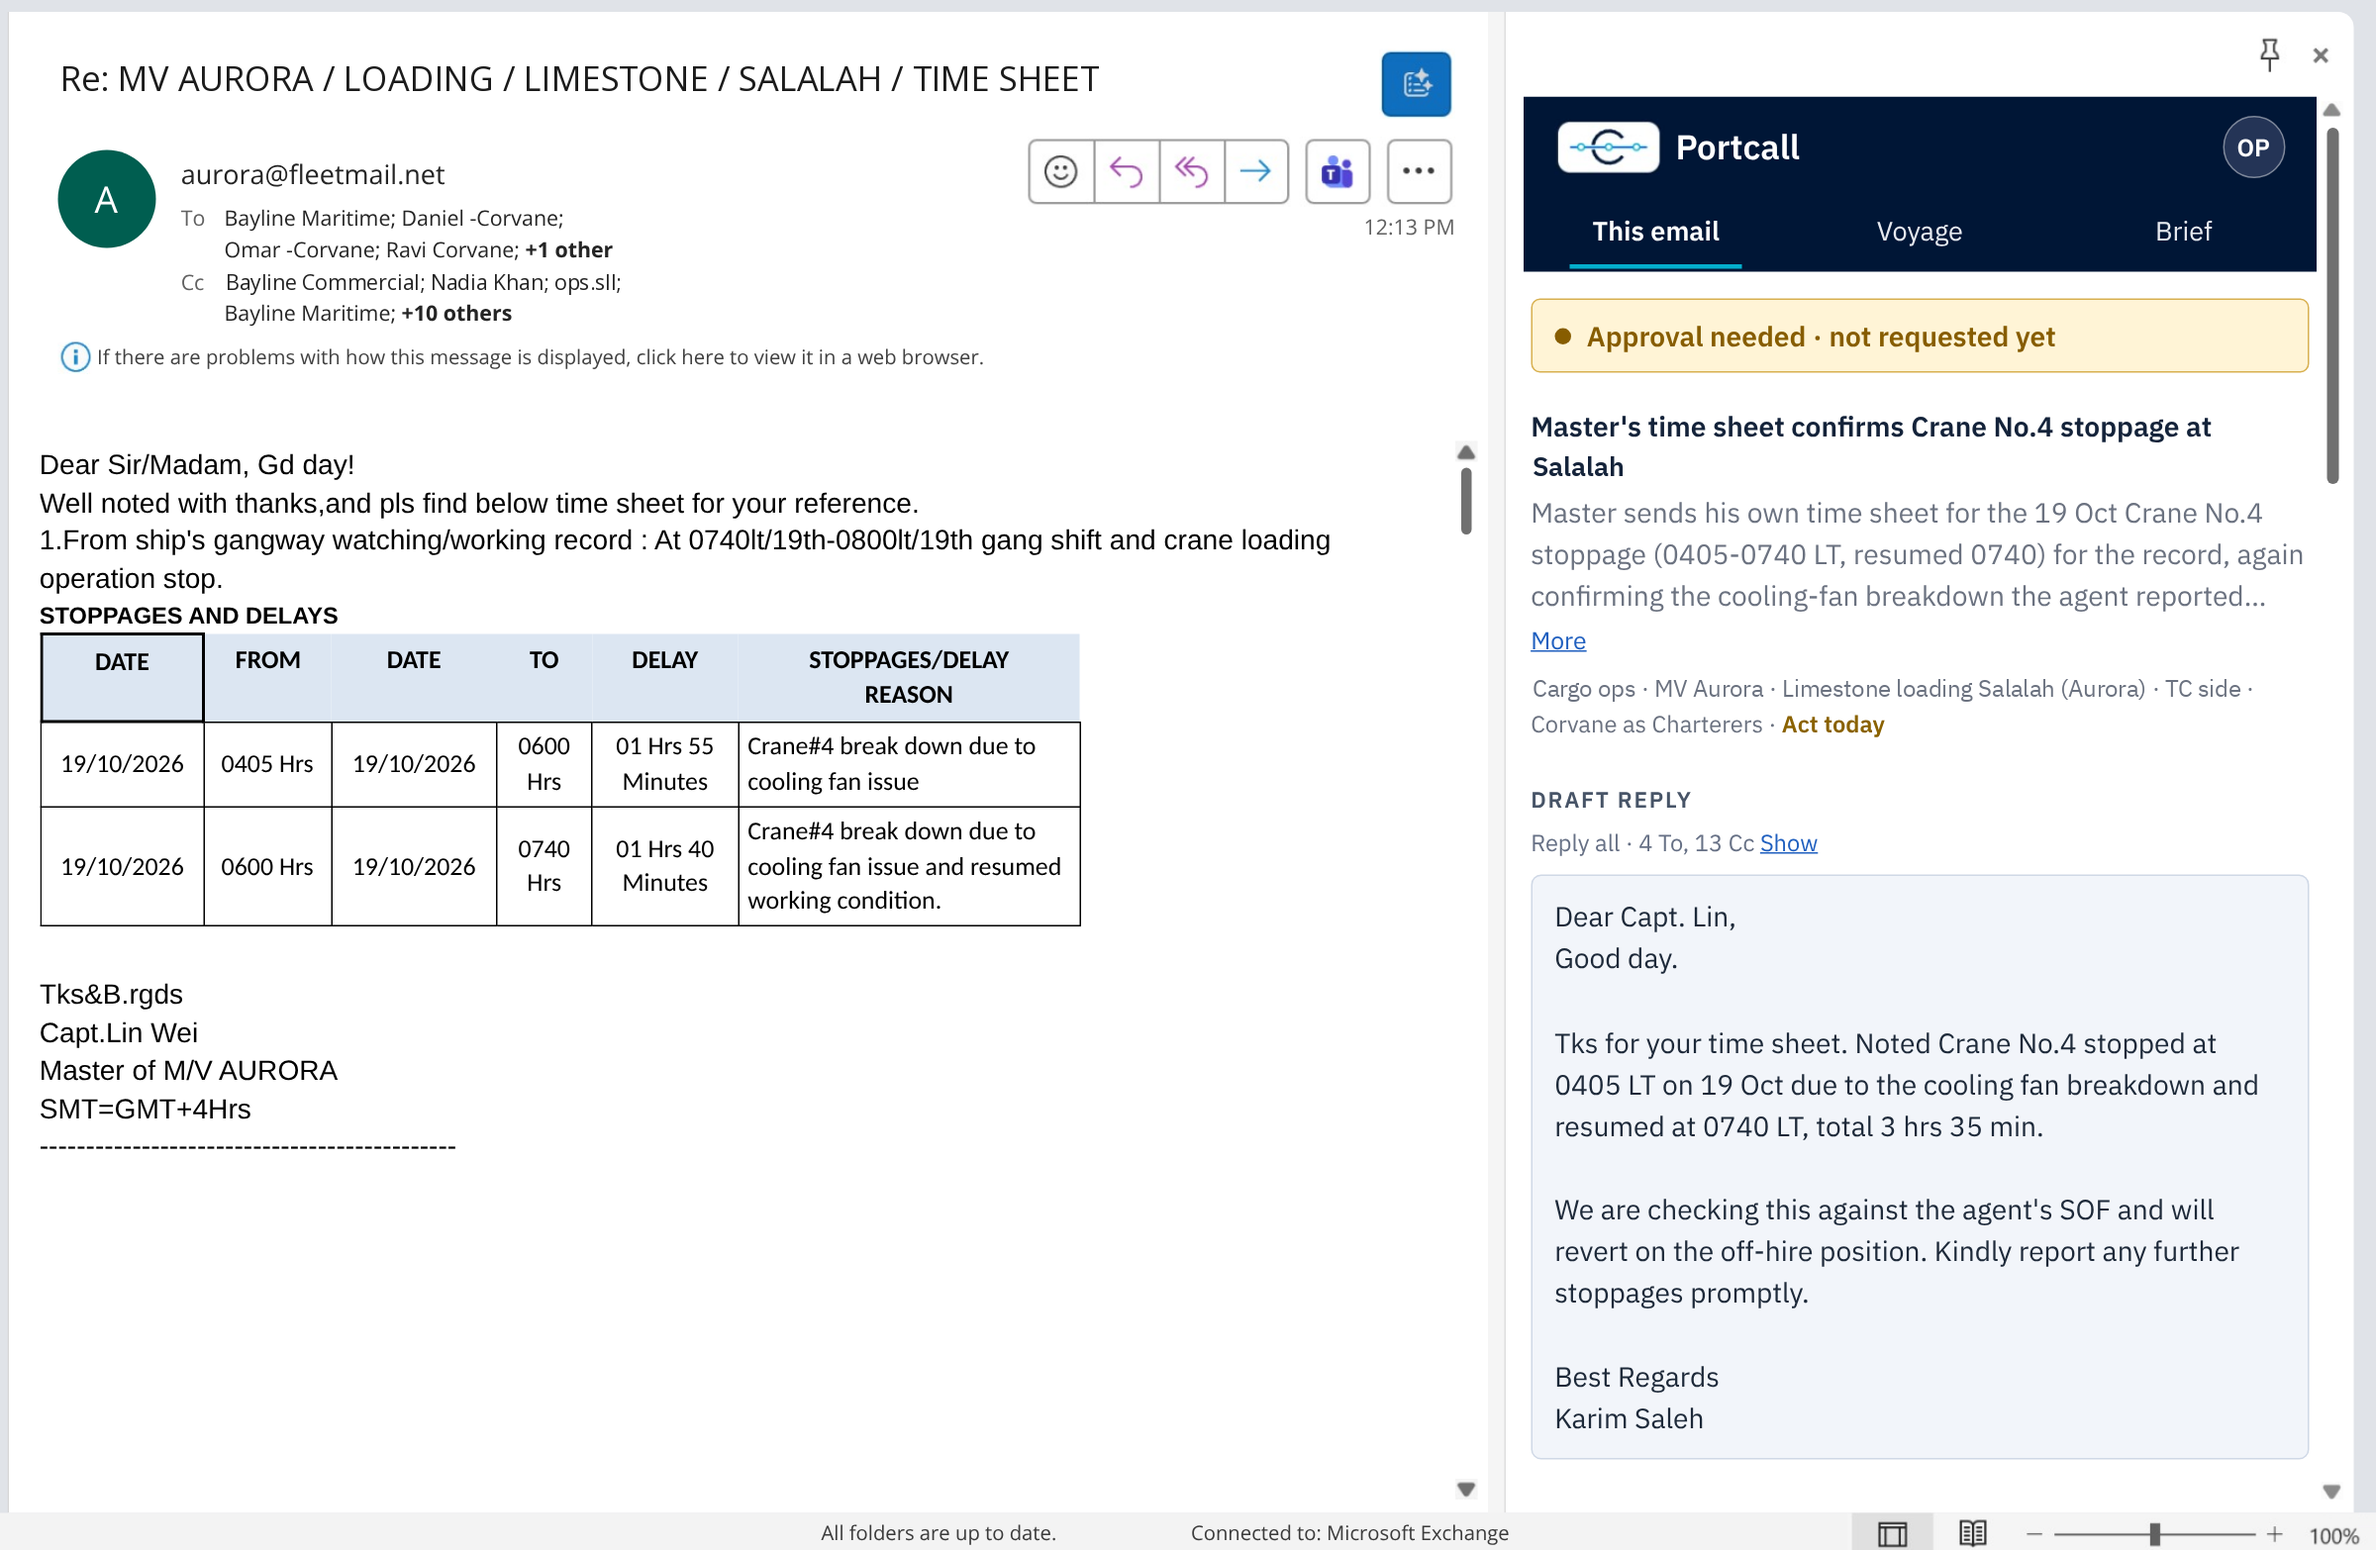
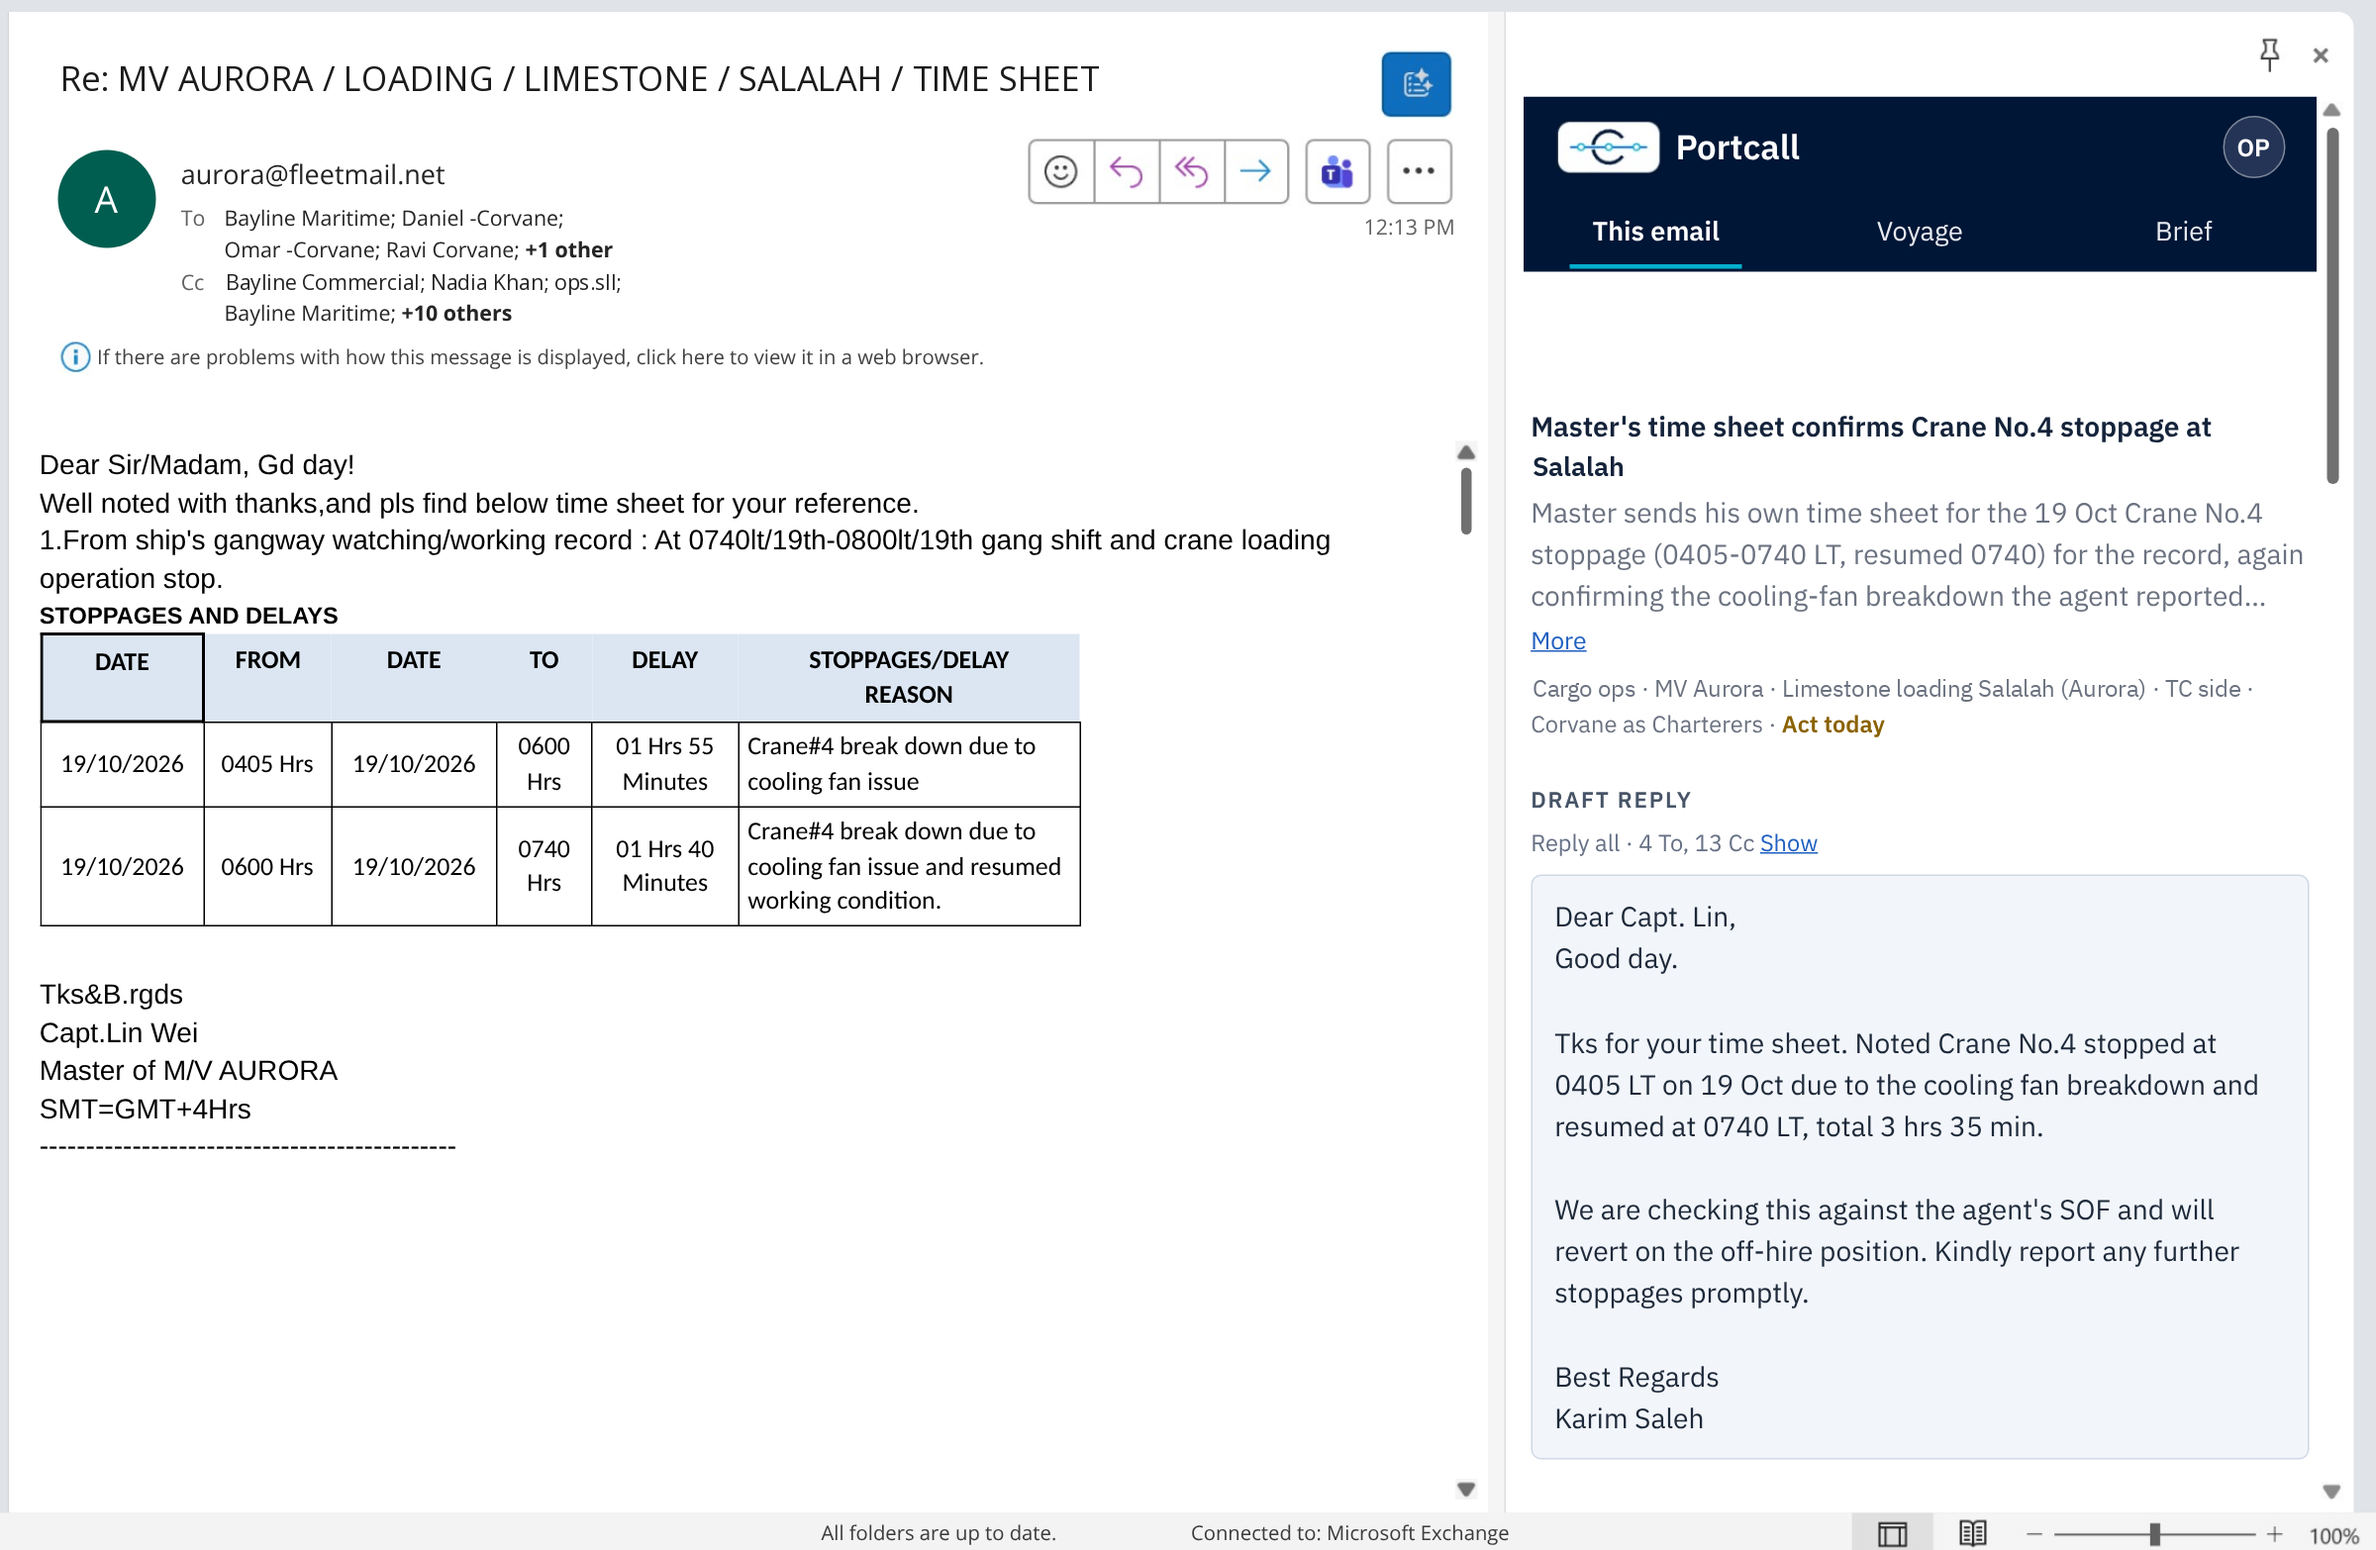
Changes

Changed region(s): [[0.625, 0.1839, 0.9688, 0.2452]]

diff --git a/src/routes/ops-agent.tsx b/src/routes/ops-agent.tsx
@@ -3,7 +3,6 @@ import { useState } from "react";
 import { z } from "zod";
 import { Layout } from "@/components/portcall/Layout";
 import heroShot from "@/assets/ops-agent-hero.png";
-import panelShot from "@/assets/ops-agent-panel.png";
 
 export const Route = createFileRoute("/ops-agent")({
   head: () => ({
@@ -116,7 +115,7 @@ function OpsAgentPage() {
           <div className="overflow-hidden rounded-xl border border-white/10 shadow-2xl shadow-navy/50">
             <img
               src={heroShot}
-              alt="A voyage email open in Outlook with the Portcall Ops Agent panel beside it, flagging approval needed and drafting the reply"
+              alt="A voyage email open in Outlook with the Portcall Ops Agent panel beside it, summarising the stoppage and drafting the reply"
               className="block w-full"
               loading="eager"
             />
@@ -130,8 +129,7 @@ function OpsAgentPage() {
       {/* One email, start to finish */}
       <section id="walkthrough" className="bg-white px-6 py-24">
         <div className="mx-auto max-w-7xl">
-          <div className="grid gap-12 lg:grid-cols-[1fr_340px] lg:items-start lg:gap-16">
-            <div className="max-w-3xl">
+          <div className="mx-auto max-w-3xl">
               <Eyebrow>One email, start to finish</Eyebrow>
               <h2 className="mt-4 text-balance text-3xl font-bold tracking-tight md:text-4xl">
                 12:13. The master's time sheet arrives.
@@ -150,15 +148,6 @@ function OpsAgentPage() {
                 The Ops Agent does that work in the pane beside the email.
               </p>
             </div>
-            <div className="overflow-hidden rounded-xl border border-navy/10 bg-white shadow-xl shadow-navy/5 lg:sticky lg:top-8">
-              <img
-                src={panelShot}
-                alt="The Portcall Ops Agent panel: approval status, one-line summary, voyage context and the drafted reply"
-                className="block w-full"
-                loading="lazy"
-              />
-            </div>
-          </div>
           <div className="mt-12 grid gap-px overflow-hidden rounded-2xl bg-navy/10 md:grid-cols-2 lg:grid-cols-4">
             {[
               {
